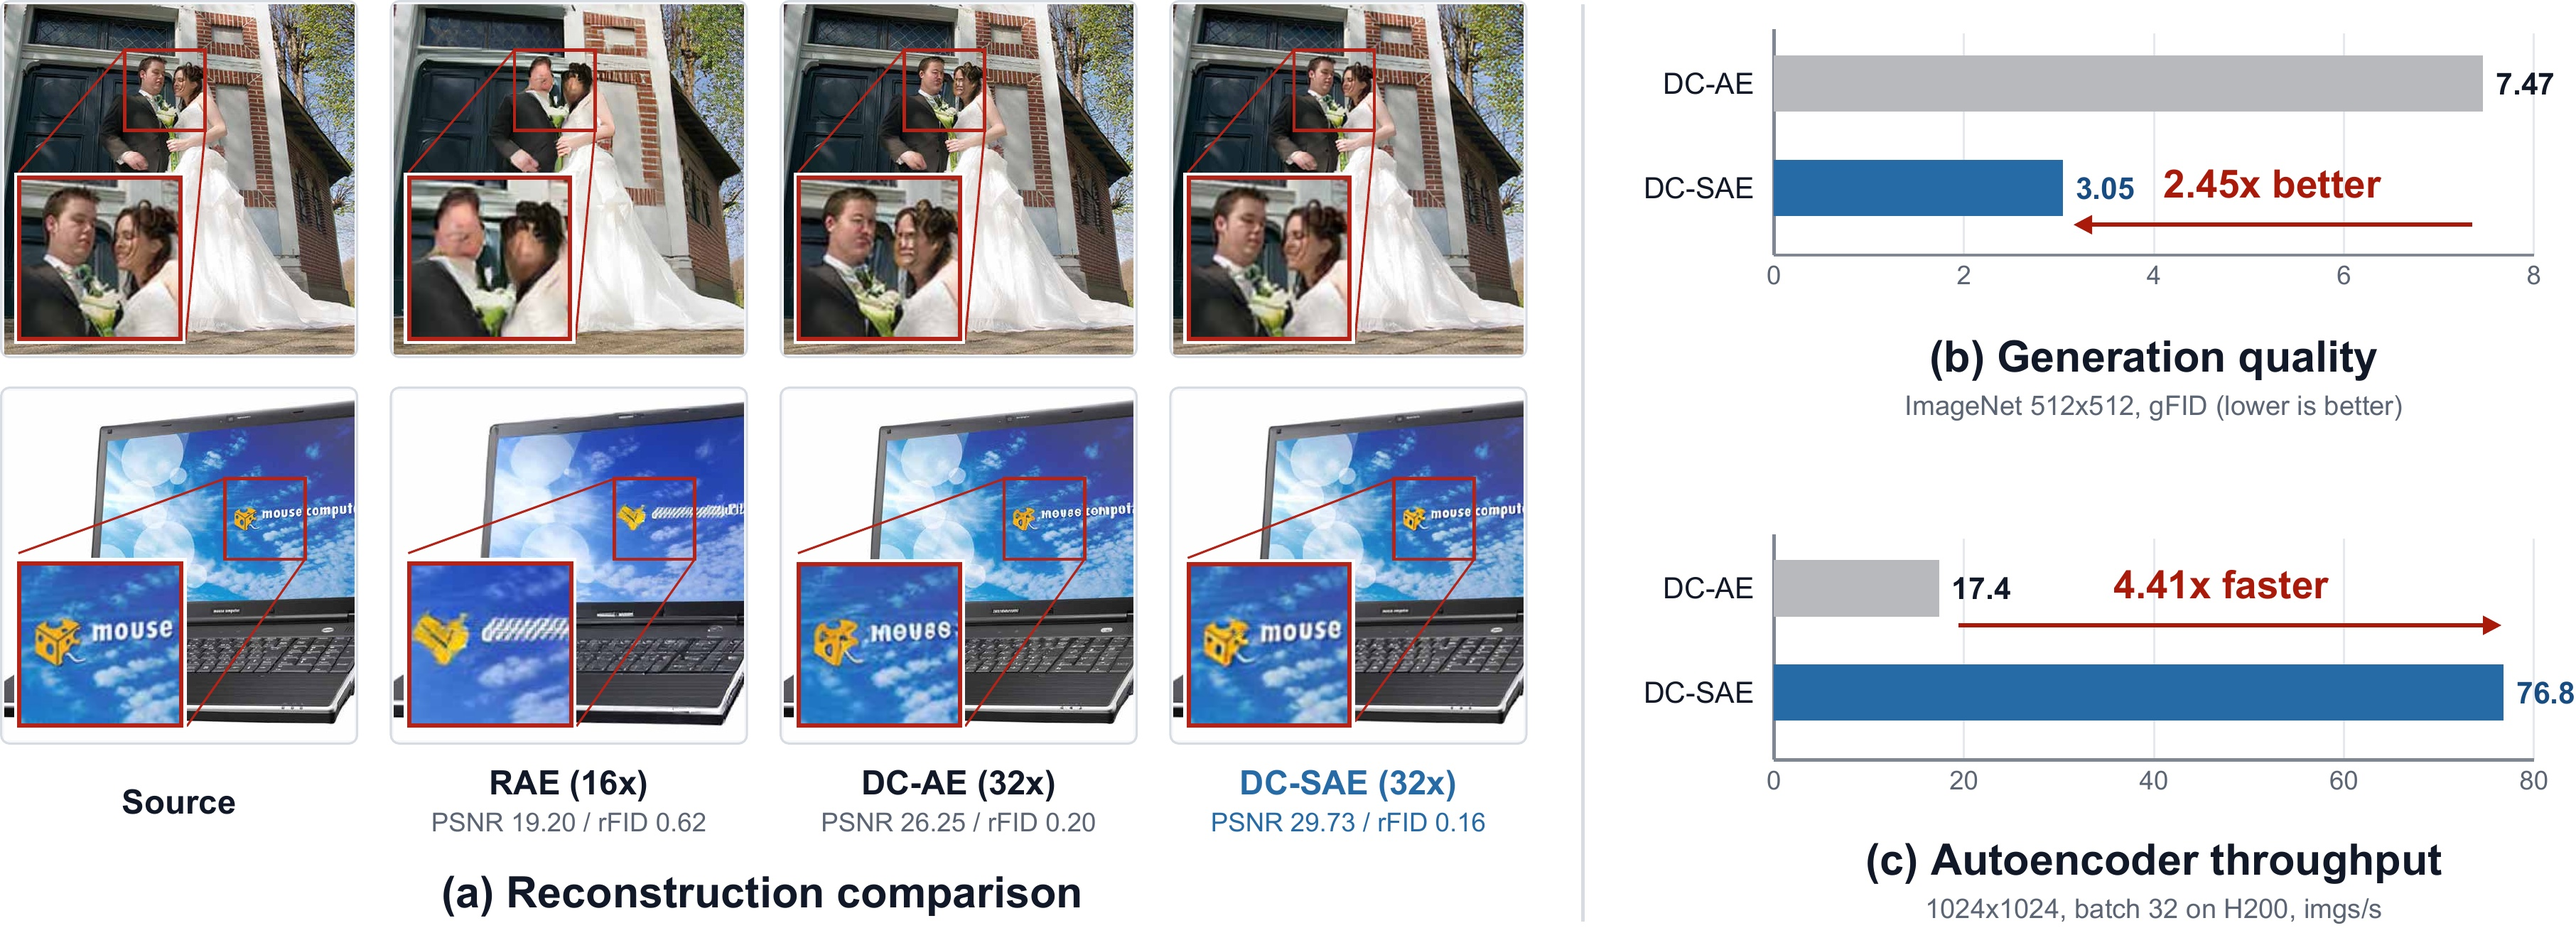
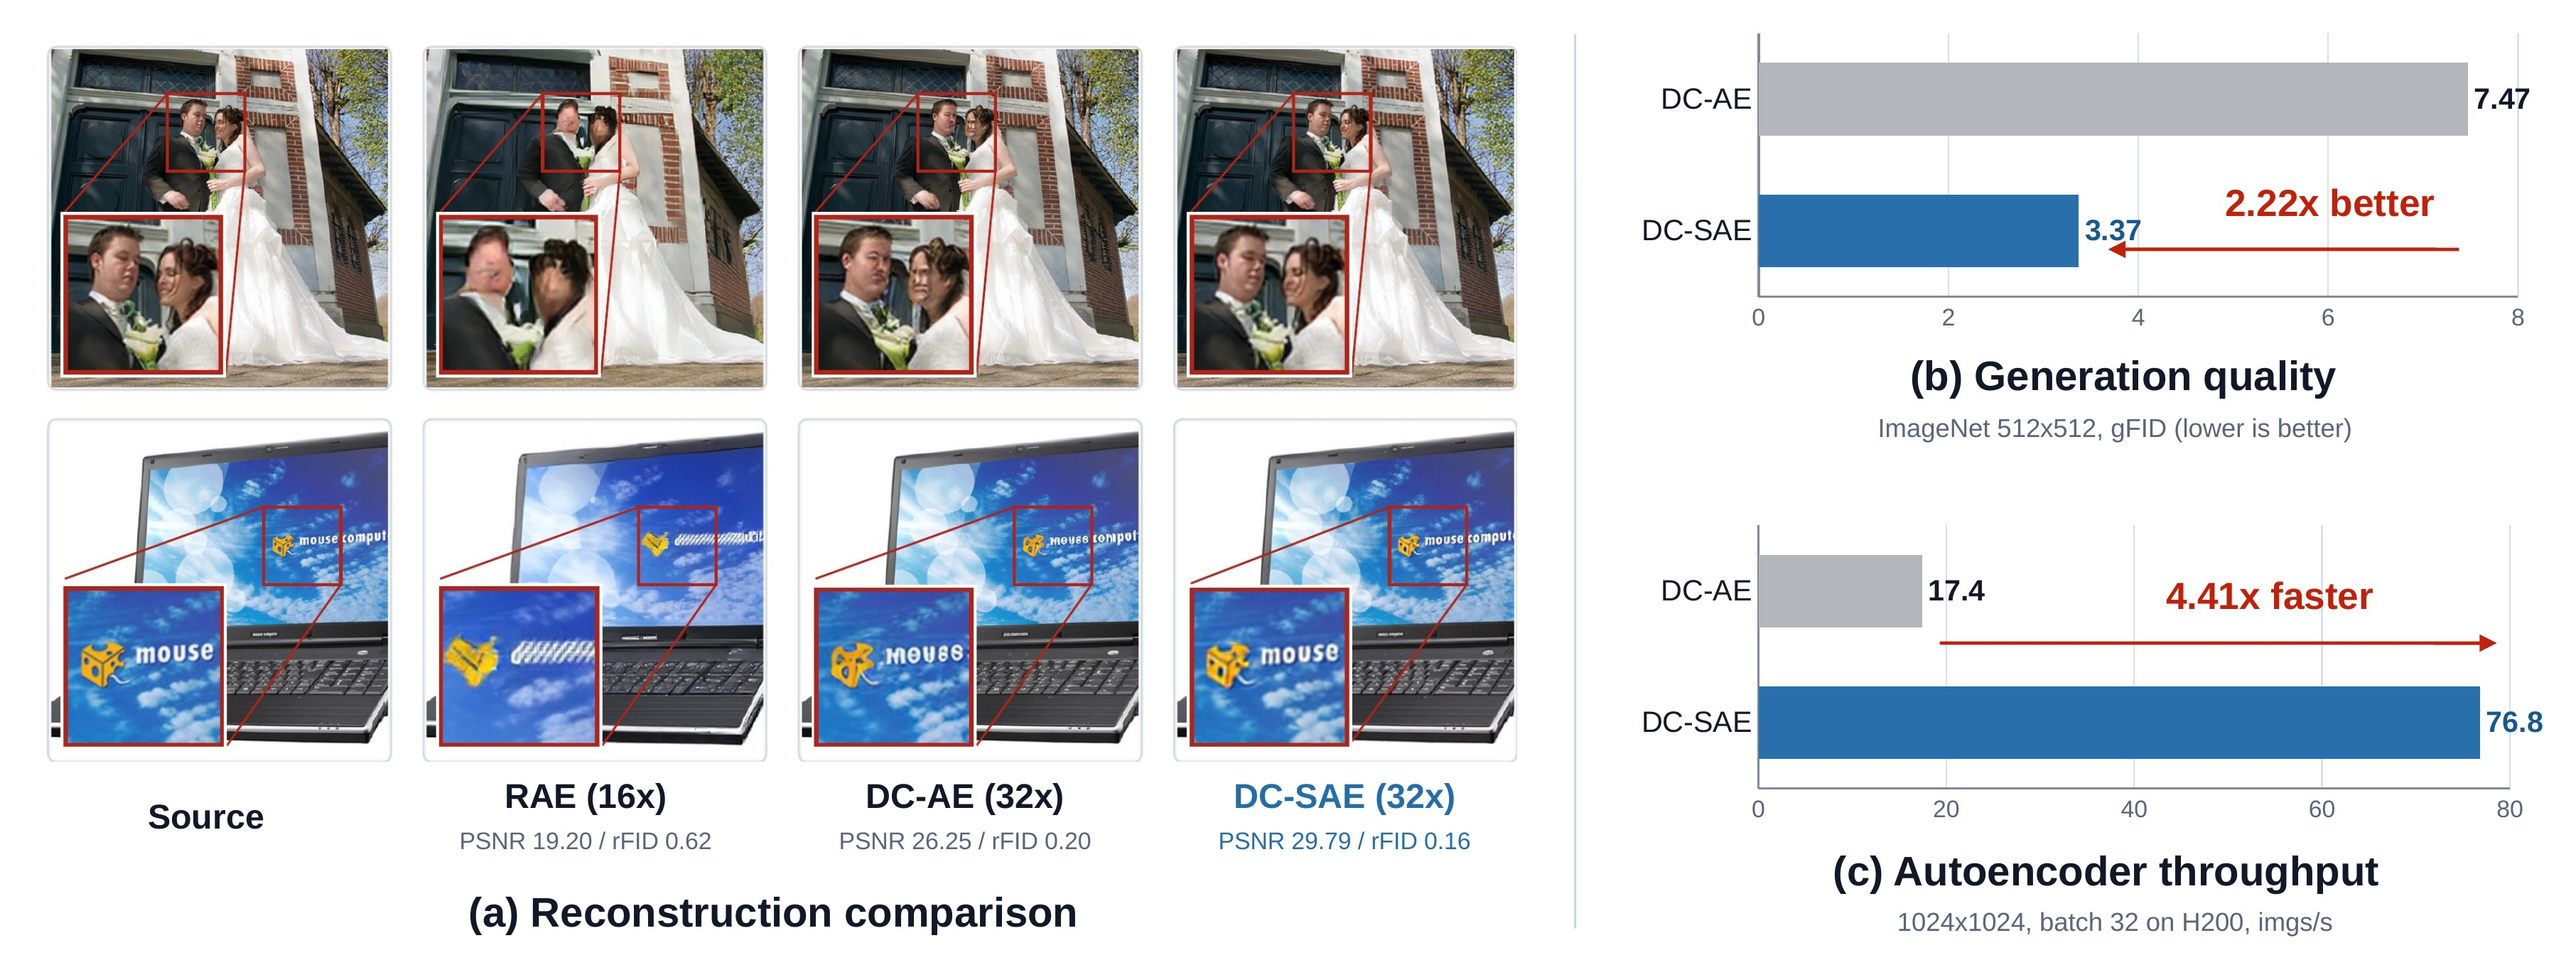
Sync corrected ImageNet 512 gFID (3.37, -54.9% vs DC-AE, 2.22x) and new teaser from paper; add Hugging Face models link
Matches DCSAE-paper commits 351c379 / a953de1: gFID measured against the official ADM 512 reference batch.

diff --git a/index.html b/index.html
@@ -4,7 +4,7 @@
   <meta charset="utf-8">
   <meta name="viewport" content="width=device-width, initial-scale=1">
   <title>DC-SAE: Deep Compression Semantic Autoencoder for Faster Diffusion Convergence</title>
-  <meta name="description" content="DC-SAE is a 32x high-compression semantic autoencoder that pairs a frozen semantic encoder with an unconstrained pixel encoder, reaching 29.79 PSNR and 3.05 gFID on ImageNet 512x512 with 4.4x higher throughput than DC-AE.">
+  <meta name="description" content="DC-SAE is a 32x high-compression semantic autoencoder that pairs a frozen semantic encoder with an unconstrained pixel encoder, reaching 29.79 PSNR and 3.37 gFID on ImageNet 512x512 with 4.4x higher throughput than DC-AE.">
   <meta name="keywords" content="Tokenizer, Autoencoder, Deep Compression, Semantic Encoder, Diffusion, Image Generation">
   <meta name="author" content="Xu Huang, Ye Huang, Zijun Liao, Yuwei Niu, Xiaojie Li, Menghan Zhou, De Wen Soh, Xiaotong Li, Daquan Zhou">
   <meta property="og:type" content="article">
@@ -76,6 +76,11 @@
                 </a>
               </span>
               <span class="link-block">
+                <a href="https://huggingface.co/DAGroup-PKU/DCSAE" target="_blank" class="external-link button is-normal is-rounded is-dark">
+                  <span class="icon">&#129303;</span><span>Models</span>
+                </a>
+              </span>
+              <span class="link-block">
                 <a href="#BibTeX" class="external-link button is-normal is-rounded is-dark">
                   <span class="icon"><i class="fas fa-quote-right"></i></span><span>BibTeX</span>
                 </a>
@@ -121,7 +126,7 @@
         <span class="card-jump-hint">Click to view details &darr;</span>
         <h3 class="performance-card-title">Class-cond. Generation</h3>
         <div class="performance-metrics">
-          <div class="metric-item"><span class="metric-label">gFID vs DC-AE</span><span class="metric-value">&minus;59.7%</span></div>
+          <div class="metric-item"><span class="metric-label">gFID vs DC-AE</span><span class="metric-value">&minus;54.9%</span></div>
           <div class="metric-separator"></div>
           <div class="metric-item"><span class="metric-label">Compression</span><span class="metric-badge">32&times;</span></div>
         </div>
@@ -209,8 +214,8 @@
             DC-SAE consists of two key components: (1) a macro-level architecture that leverages semantic encoders to enable higher
             compression ratios, and (2) a pixel-level encoder that preserves low-level details for high-fidelity reconstruction.
             On ImageNet 512&times;512, DC-SAE achieves 32&times; spatial compression with <span class="metric-highlight">29.79</span> PSNR and
-            <span class="metric-highlight">3.05</span> gFID, outperforming the previous state-of-the-art high-compression tokenizer DC-AE by
-            <span class="metric-highlight">13.5%</span> and <span class="metric-highlight">59.7%</span> on PSNR and gFID respectively, with
+            <span class="metric-highlight">3.37</span> gFID, outperforming the previous state-of-the-art high-compression tokenizer DC-AE by
+            <span class="metric-highlight">13.5%</span> and <span class="metric-highlight">54.9%</span> on PSNR and gFID respectively, with
             higher throughput and faster diffusion convergence. Beyond class-conditional generation, a 1.6B-parameter DiT using DC-SAE achieves
             <span class="metric-highlight">0.84</span> on GenEval and <span class="metric-highlight">86.007</span> on DPG-Bench at 1024&times;1024.
           </p>
@@ -266,13 +271,13 @@
 
     <section class="chart-section" aria-label="DC-SAE vs DC-AE on ImageNet 512">
       <div class="chart-card">
-        <p class="has-text-centered normal-highlight is-size-6"><span class="title-highlight">2.45&times;</span> lower gFID than DC-AE</p>
+        <p class="has-text-centered normal-highlight is-size-6"><span class="title-highlight">2.22&times;</span> lower gFID than DC-AE</p>
         <p class="pipeline-caption">ImageNet 512&times;512, gFID w/o CFG (&darr;)</p>
-        <div class="bar-chart" role="img" aria-label="gFID: DC-SAE 3.05, DC-AE 7.47">
+        <div class="bar-chart" role="img" aria-label="gFID: DC-SAE 3.37, DC-AE 7.47">
           <div class="bar-row">
             <span class="bar-label">DC-SAE</span>
-            <div class="bar-track"><div class="bar-fill dcsae" style="--value: 3.05; --scale: 8"></div></div>
-            <span class="bar-value">3.05</span>
+            <div class="bar-track"><div class="bar-fill dcsae" style="--value: 3.37; --scale: 8"></div></div>
+            <span class="bar-value">3.37</span>
           </div>
           <div class="bar-row">
             <span class="bar-label">DC-AE</span>
@@ -316,7 +321,7 @@
           <tr><td>SiT-XL</td><td class="l">DC-AE-f32c32</td><td>32&times;</td><td>0.67</td><td>7.47</td><td>2.41</td><td>131.37</td><td>26.25</td><td>0.20</td></tr>
           <tr><td>USiT-H</td><td class="l">DC-AE-f32c32</td><td>32&times;</td><td>0.50</td><td>3.80</td><td>1.89</td><td>174.58</td><td>26.25</td><td>0.20</td></tr>
           <tr><td>USiT-2B</td><td class="l">DC-AE-f32c32</td><td>32&times;</td><td>1.58</td><td>2.90</td><td>1.72</td><td>187.68</td><td>26.25</td><td>0.20</td></tr>
-          <tr class="ours"><td>DiT-XL <small>+ DDT wide head</small></td><td class="l">DC-SAE</td><td>32&times;</td><td>0.83</td><td>3.05</td><td>1.99</td><td>205.83</td><td>29.79</td><td>0.16</td></tr>
+          <tr class="ours"><td>DiT-XL <small>+ DDT wide head</small></td><td class="l">DC-SAE</td><td>32&times;</td><td>0.83</td><td>3.37</td><td>1.99</td><td>205.83</td><td>29.79</td><td>0.16</td></tr>
         </tbody>
       </table>
     </div>
